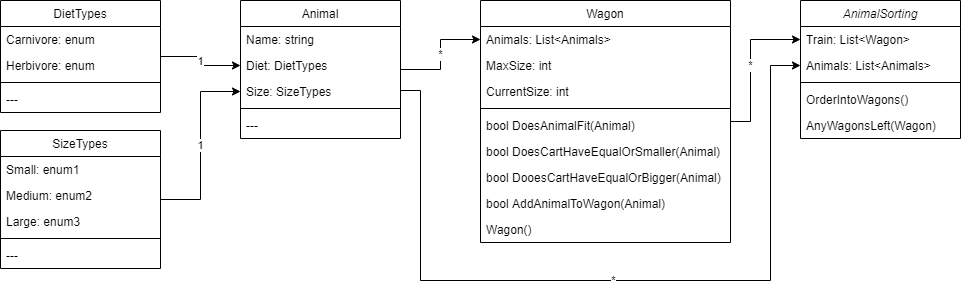
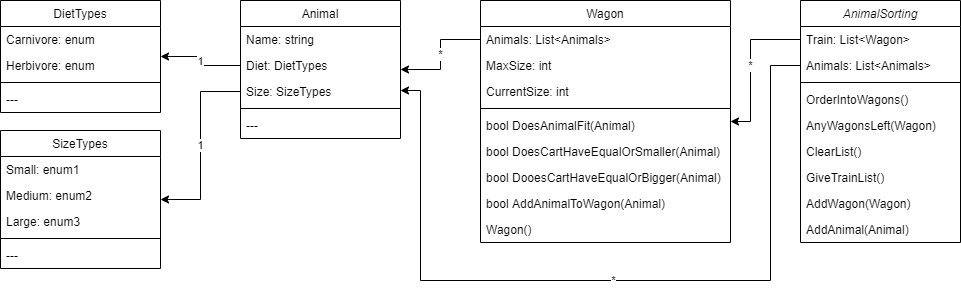
Updated every list to allign more with OO princibels Updated class diagrams to be more in-depth

diff --git a/Circustrein/Circustrein/Circustrein.UnitTests/AnimalSortingTests.cs b/Circustrein/Circustrein/Circustrein.UnitTests/AnimalSortingTests.cs
@@ -14,24 +14,24 @@ namespace Circustrein.UnitTests
             for (int i = 0; i < 6; i++)
             {
                 // Add small meat animal
-                animalsorting.Animals.Add(new Animal { Name = "MS", Diet = DietTypes.Carnivore, Size = SizeTypes.Small });
+                animalsorting.AddToAnimals(new Animal { Name = "MS", Diet = DietTypes.Carnivore, Size = SizeTypes.Small });
                 // Add medium meat animal
-                animalsorting.Animals.Add(new Animal { Name = "MM", Diet = DietTypes.Carnivore, Size = SizeTypes.Medium });
+                animalsorting.AddToAnimals(new Animal { Name = "MM", Diet = DietTypes.Carnivore, Size = SizeTypes.Medium });
                 // Add large meat animal
-                animalsorting.Animals.Add(new Animal { Name = "ML", Diet = DietTypes.Carnivore, Size = SizeTypes.Large });
+                animalsorting.AddToAnimals(new Animal { Name = "ML", Diet = DietTypes.Carnivore, Size = SizeTypes.Large });
 
                 // Add small plant animal
-                animalsorting.Animals.Add(new Animal { Name = "PS", Diet = DietTypes.Herbivore, Size = SizeTypes.Small });
+                animalsorting.AddToAnimals(new Animal { Name = "PS", Diet = DietTypes.Herbivore, Size = SizeTypes.Small });
                 // Add medium plant animal
-                animalsorting.Animals.Add(new Animal { Name = "PM", Diet = DietTypes.Herbivore, Size = SizeTypes.Medium });
+                animalsorting.AddToAnimals(new Animal { Name = "PM", Diet = DietTypes.Herbivore, Size = SizeTypes.Medium });
                 // Add large plant animal
-                animalsorting.Animals.Add(new Animal { Name = "PL", Diet = DietTypes.Herbivore, Size = SizeTypes.Large });
+                animalsorting.AddToAnimals(new Animal { Name = "PL", Diet = DietTypes.Herbivore, Size = SizeTypes.Large });
             }
             // Act
             animalsorting.OrderIntoCarts();
             // Assert
             bool lenghtcheck = false;
-            if (animalsorting.Train.Count == 19)
+            if (animalsorting.GiveTrainList().Count == 19)
             {
                 lenghtcheck = true;
             }
@@ -48,8 +48,8 @@ namespace Circustrein.UnitTests
             Wagon Wagon2 = new Wagon();
 
             // Act
-            animalSorting.Train.Add(Wagon1);
-            animalSorting.Train.Add(Wagon2);
+            animalSorting.AddWagon(Wagon1);
+            animalSorting.AddWagon(Wagon2);
 
             var result = animalSorting.AnyWagonsLeft(Wagon1);
 
@@ -67,8 +67,8 @@ namespace Circustrein.UnitTests
             Wagon Wagon2 = new Wagon();
 
             // Act
-            animalSorting.Train.Add(Wagon1);
-            animalSorting.Train.Add(Wagon2);
+            animalSorting.AddWagon(Wagon1);
+            animalSorting.AddWagon(Wagon2);
 
             var result = animalSorting.AnyWagonsLeft(Wagon2);
 
@@ -82,24 +82,24 @@ namespace Circustrein.UnitTests
             // Arrange
             var animalsorting = new AnimalSorting();
 
-            animalsorting.Animals.Add(new Animal { Name = "H1", Size = SizeTypes.Small, Diet = DietTypes.Herbivore });
-            animalsorting.Animals.Add(new Animal { Name = "H1", Size = SizeTypes.Small, Diet = DietTypes.Herbivore });
-            animalsorting.Animals.Add(new Animal { Name = "H1", Size = SizeTypes.Small, Diet = DietTypes.Herbivore });
-            animalsorting.Animals.Add(new Animal { Name = "H1", Size = SizeTypes.Small, Diet = DietTypes.Herbivore });
-            animalsorting.Animals.Add(new Animal { Name = "H1", Size = SizeTypes.Small, Diet = DietTypes.Herbivore });
+            animalsorting.AddToAnimals(new Animal { Name = "H1", Size = SizeTypes.Small, Diet = DietTypes.Herbivore });
+            animalsorting.AddToAnimals(new Animal { Name = "H1", Size = SizeTypes.Small, Diet = DietTypes.Herbivore });
+            animalsorting.AddToAnimals(new Animal { Name = "H1", Size = SizeTypes.Small, Diet = DietTypes.Herbivore });
+            animalsorting.AddToAnimals(new Animal { Name = "H1", Size = SizeTypes.Small, Diet = DietTypes.Herbivore });
+            animalsorting.AddToAnimals(new Animal { Name = "H1", Size = SizeTypes.Small, Diet = DietTypes.Herbivore });
 
-            animalsorting.Animals.Add(new Animal { Name = "H3", Size = SizeTypes.Medium, Diet = DietTypes.Herbivore });
-            animalsorting.Animals.Add(new Animal { Name = "H3", Size = SizeTypes.Medium, Diet = DietTypes.Herbivore });
-            animalsorting.Animals.Add(new Animal { Name = "H3", Size = SizeTypes.Medium, Diet = DietTypes.Herbivore });
+            animalsorting.AddToAnimals(new Animal { Name = "H3", Size = SizeTypes.Medium, Diet = DietTypes.Herbivore });
+            animalsorting.AddToAnimals(new Animal { Name = "H3", Size = SizeTypes.Medium, Diet = DietTypes.Herbivore });
+            animalsorting.AddToAnimals(new Animal { Name = "H3", Size = SizeTypes.Medium, Diet = DietTypes.Herbivore });
 
-            animalsorting.Animals.Add(new Animal { Name = "H1", Size = SizeTypes.Large, Diet = DietTypes.Herbivore });
+            animalsorting.AddToAnimals(new Animal { Name = "H1", Size = SizeTypes.Large, Diet = DietTypes.Herbivore });
 
             // Act
             animalsorting.OrderIntoCarts();
 
             // Assert
             bool lenghtcheck = false;
-            if (animalsorting.Train.Count == 2)
+            if (animalsorting.GiveTrainList().Count == 2)
             {
                 lenghtcheck = true;
             }

diff --git a/Simpel algoritme/Simpel algoritme/Simpel algoritme.UnitTests/OrderTests.cs b/Simpel algoritme/Simpel algoritme/Simpel algoritme.UnitTests/OrderTests.cs
@@ -35,11 +35,11 @@ namespace Simpel_algoritme.UnitTests
         {
             // Arrange
             var order = new Order();
-            order.ProductsInOrder.Add(new Product { Name = "1euro", Price = 1 });
-            order.ProductsInOrder.Add(new Product { Name = "2euro", Price = 2 });
-            order.ProductsInOrder.Add(new Product { Name = "4euro", Price = 4 });
-            order.ProductsInOrder.Add(new Product { Name = "6euro", Price = 6 });
-            order.ProductsInOrder.Add(new Product { Name = "10euro", Price = 10 });
+            order.AddToOrder(new Product { Name = "1euro", Price = 1 });
+            order.AddToOrder(new Product { Name = "2euro", Price = 2 });
+            order.AddToOrder(new Product { Name = "4euro", Price = 4 });
+            order.AddToOrder(new Product { Name = "6euro", Price = 6 });
+            order.AddToOrder(new Product { Name = "10euro", Price = 10 });
 
             // Act
             var result = order.GiveMaximumPrice();
@@ -88,11 +88,11 @@ namespace Simpel_algoritme.UnitTests
         {
             // Arrange
             var order = new Order();
-            order.ProductsInOrder.Add(new Product { Name = "1euro", Price = 1 });
-            order.ProductsInOrder.Add(new Product { Name = "2euro", Price = 2 });
-            order.ProductsInOrder.Add(new Product { Name = "4euro", Price = 4 });
-            order.ProductsInOrder.Add(new Product { Name = "6euro", Price = 6 });
-            order.ProductsInOrder.Add(new Product { Name = "10euro", Price = 10 });
+            order.AddToOrder(new Product { Name = "1euro", Price = 1 });
+            order.AddToOrder(new Product { Name = "2euro", Price = 2 });
+            order.AddToOrder(new Product { Name = "4euro", Price = 4 });
+            order.AddToOrder(new Product { Name = "6euro", Price = 6 });
+            order.AddToOrder(new Product { Name = "10euro", Price = 10 });
 
             // Act
             var result = order.GiveAveragePrice();
@@ -117,11 +117,11 @@ namespace Simpel_algoritme.UnitTests
         {
             // Arrange
             var order = new Order();
-            order.ProductsInOrder.Add(new Product { Name = "1euro", Price = 1 });
-            order.ProductsInOrder.Add(new Product { Name = "2euro", Price = 2 });
-            order.ProductsInOrder.Add(new Product { Name = "4euro", Price = 4 });
-            order.ProductsInOrder.Add(new Product { Name = "6euro", Price = 6 });
-            order.ProductsInOrder.Add(new Product { Name = "10euro", Price = 10 });
+            order.AddToOrder(new Product { Name = "1euro", Price = 1 });
+            order.AddToOrder(new Product { Name = "2euro", Price = 2 });
+            order.AddToOrder(new Product { Name = "4euro", Price = 4 });
+            order.AddToOrder(new Product { Name = "6euro", Price = 6 });
+            order.AddToOrder(new Product { Name = "10euro", Price = 10 });
 
             // Act
             var result = order.GetAllProducts(3);
@@ -147,23 +147,23 @@ namespace Simpel_algoritme.UnitTests
 
             // Arrange
             var order = new Order();
-            order.ProductsInOrder.Add(new Product { Name = "12,50euro", Price = 12.5 });
-            order.ProductsInOrder.Add(new Product { Name = "14,50euro", Price = 14.5 });
-            order.ProductsInOrder.Add(new Product { Name = "15euro", Price = 15 });
-            order.ProductsInOrder.Add(new Product { Name = "20euro", Price = 20 });
-            order.ProductsInOrder.Add(new Product { Name = "0.50euro", Price = 0.5 });
+            order.AddToOrder(new Product { Name = "12,50euro", Price = 12.5 });
+            order.AddToOrder(new Product { Name = "14,50euro", Price = 14.5 });
+            order.AddToOrder(new Product { Name = "15euro", Price = 15 });
+            order.AddToOrder(new Product { Name = "20euro", Price = 20 });
+            order.AddToOrder(new Product { Name = "0.50euro", Price = 0.5 });
 
-            order.ProductsInOrder.Add(new Product { Name = "1euro", Price = 1 });
-            order.ProductsInOrder.Add(new Product { Name = "2euro", Price = 2 });
-            order.ProductsInOrder.Add(new Product { Name = "4euro", Price = 4 });
-            order.ProductsInOrder.Add(new Product { Name = "6euro", Price = 6 });
-            order.ProductsInOrder.Add(new Product { Name = "10euro", Price = 10 });
+            order.AddToOrder(new Product { Name = "1euro", Price = 1 });
+            order.AddToOrder(new Product { Name = "2euro", Price = 2 });
+            order.AddToOrder(new Product { Name = "4euro", Price = 4 });
+            order.AddToOrder(new Product { Name = "6euro", Price = 6 });
+            order.AddToOrder(new Product { Name = "10euro", Price = 10 });
 
-            var compare = order.ProductsInOrder;
+            var compare = order.GetAllProducts(0);
 
             // Act
             order.SortProductsByPrice();
-            var result = order.ProductsInOrder;
+            var result = order.GetAllProducts(0);
             compare.Sort((x, y) => x.Price.CompareTo(y.Price));
 
             // Assert

diff --git a/Circustrein/Circustrein/Circustrein/Form1.cs b/Circustrein/Circustrein/Circustrein/Form1.cs
@@ -6,7 +6,7 @@ namespace Circustrein
 {
     public partial class Circustrein : Form
     {
-        AnimalSorting AnimalSorting = new AnimalSorting();
+        private AnimalSorting AnimalSorting = new AnimalSorting();
 
         public Circustrein()
         {
@@ -27,8 +27,7 @@ namespace Circustrein
 
         private void ClearAll_Click(object sender, EventArgs e)
         {
-            AnimalSorting.Animals.Clear();
-            AnimalSorting.Train.Clear();
+            AnimalSorting.ClearList();
             TrainList.Clear();
             ListViewAnimal.Clear();
         }
@@ -63,24 +62,24 @@ namespace Circustrein
 
         private void AddAnimalToList()
         {
-            AnimalSorting.Animals.Add(new Animal
+            AnimalSorting.AddToAnimals(new Animal
             {
                 Name = AnimailAddName.Text,
                 Diet = GetDiet(),
                 Size = GetSize()
 
             });
-            ListViewAnimal.Items.Add(AnimalSorting.Animals[AnimalSorting.Animals.Count - 1].Name);
+            ListViewAnimal.Items.Add(AnimailAddName.Text);
         }
 
         private void DisplayTrain() 
         {
             int counter = 1;
-            foreach (Wagon wagon in AnimalSorting.Train)
+            foreach (Wagon wagon in AnimalSorting.GiveTrainList())
             {
                 TrainList.Text += "Wagon: "+ counter + " Current Size:" + wagon.CurrentSize + " Max Size: " + wagon.MaxSize;
                 TrainList.Text += Environment.NewLine;
-                foreach (Animal animal in wagon.StoredAnimals)
+                foreach (Animal animal in wagon.AnimalsInCart())
                 {
                     TrainList.Text += "Name: " + animal.Name + " Size: " + animal.Size.ToString() + " Diet: " + animal.Diet.ToString();
                     TrainList.Text += Environment.NewLine;

diff --git a/Circustrein/Circustrein/Circustrein.UnitTests/WagonTests.cs b/Circustrein/Circustrein/Circustrein.UnitTests/WagonTests.cs
@@ -54,7 +54,7 @@ namespace Circustrein.UnitTests
 
 
             // Act
-            wagon.StoredAnimals.Add(animal1);
+            wagon.AddAnimalToCart(animal1);
             wagon.CurrentSize += (int)animal1.Size;
 
             var result = wagon.DoesCartHaveEqualOrSmaller(animal);
@@ -76,7 +76,7 @@ namespace Circustrein.UnitTests
 
 
             // Act
-            wagon.StoredAnimals.Add(animal1);
+            wagon.AddAnimalToCart(animal1);
             wagon.CurrentSize += (int)animal1.Size;
 
             var result = wagon.DoesCartHaveEqualOrSmaller(animal);
@@ -98,7 +98,7 @@ namespace Circustrein.UnitTests
 
 
             // Act
-            wagon.StoredAnimals.Add(animal1);
+            wagon.AddAnimalToCart(animal1);
             wagon.CurrentSize += (int)animal1.Size;
 
             var result = wagon.DoesCartHaveEqualOrBiggerMeat(animal);
@@ -119,7 +119,7 @@ namespace Circustrein.UnitTests
 
 
             // Act
-            wagon.StoredAnimals.Add(animal1);
+            wagon.AddAnimalToCart(animal1);
             wagon.CurrentSize += (int)animal1.Size;
 
             var result = wagon.DoesCartHaveEqualOrBiggerMeat(animal);

diff --git a/Circustrein/Circustrein/Circustrein/Classes/AnimalSorting.cs b/Circustrein/Circustrein/Circustrein/Classes/AnimalSorting.cs
@@ -5,8 +5,8 @@ namespace Circustrein.Classes
 {
     public class AnimalSorting
     {
-        public List<Animal> Animals = new List<Animal>();
-        public List<Wagon> Train = new List<Wagon>();
+        private List<Animal> Animals = new List<Animal>();
+        private List<Wagon> Train = new List<Wagon>();
 
         public void OrderIntoCarts()
         {
@@ -152,6 +152,27 @@ namespace Circustrein.Classes
 
             return true;
 
+        }
+
+        public void ClearList() 
+        {
+            Animals.Clear();
+            Train.Clear();
+        }
+
+        public void AddWagon(Wagon wagon) 
+        {
+            Train.Add(wagon);
+        }
+
+        public void AddToAnimals(Animal animal) 
+        {
+            Animals.Add(animal);
+        }
+
+        public List<Wagon> GiveTrainList() 
+        {
+            return Train;
         }
     }
 }

diff --git a/Simpel algoritme/Simpel algoritme/Simpel algoritme/Program.cs b/Simpel algoritme/Simpel algoritme/Simpel algoritme/Program.cs
@@ -94,7 +94,7 @@ namespace Simpel_algoritme
             {
                 Console.Clear();
                 Console.WriteLine("Order: ");
-                foreach (Product product in Order.ProductsInOrder)
+                foreach (Product product in Order.GetAllProducts(0))
                 {
                     Console.WriteLine(product.ToString());
                 }
@@ -117,7 +117,7 @@ namespace Simpel_algoritme
                         product.Name = Console.ReadLine();
                         Console.WriteLine("What is the product price:");
                         product.Price = Convert.ToDouble(Console.ReadLine());
-                        Order.ProductsInOrder.Add(product);
+                        Order.AddToOrder(product);
                         break;
 
                     case ConsoleKey.D2:

diff --git a/Circustrein/Circustrein/Circustrein/Classes/Wagon.cs b/Circustrein/Circustrein/Circustrein/Classes/Wagon.cs
@@ -4,10 +4,9 @@ namespace Circustrein.Classes
 {
     public class Wagon
     {
-        public List<Animal> StoredAnimals = new List<Animal>();
-
         public int MaxSize { get; }
         public int CurrentSize { get; set; }
+        private List<Animal> StoredAnimals = new List<Animal>();
 
         public bool DoesAnimalFit(Animal animal)
         {
@@ -56,6 +55,11 @@ namespace Circustrein.Classes
                 return true;
             }
             return false;
+        }
+
+        public List<Animal> AnimalsInCart() 
+        {
+            return StoredAnimals;
         }
 
         public Wagon() 

diff --git a/Simpel algoritme/Simpel algoritme/Simpel algoritme/Classes/Order.cs b/Simpel algoritme/Simpel algoritme/Simpel algoritme/Classes/Order.cs
@@ -6,7 +6,12 @@ namespace Simpel_algoritme.Classes
 {
     public class Order
     {
-        public List<Product> ProductsInOrder = new List<Product>();
+        private List<Product> ProductsInOrder = new List<Product>();
+
+        public void AddToOrder(Product product) 
+        {
+            ProductsInOrder.Add(product);
+        }
 
         public double GiveMaximumPrice() 
         {
